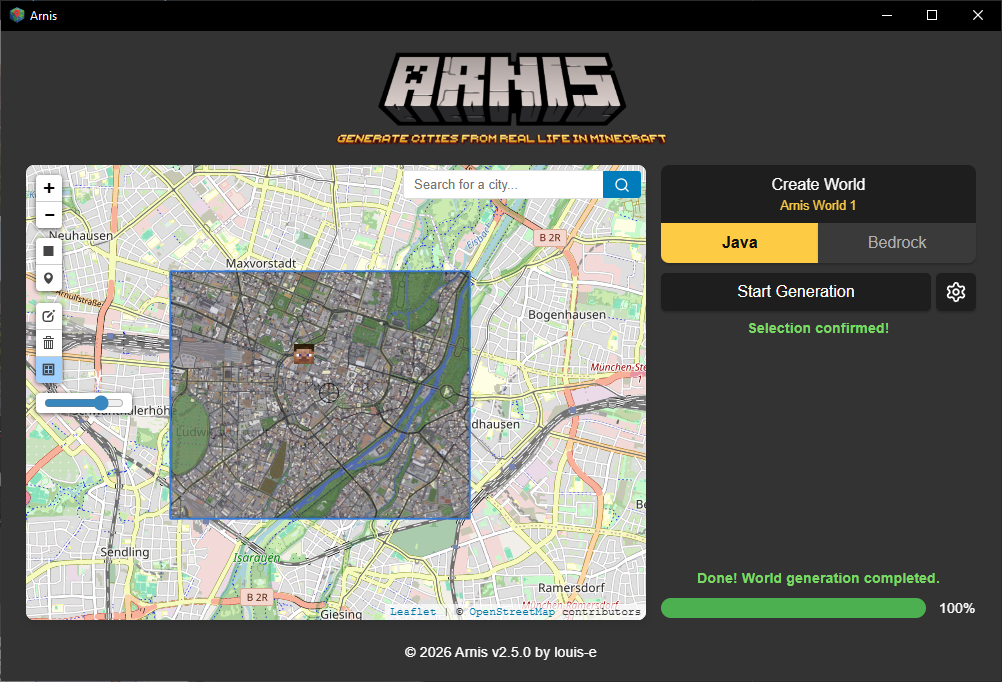
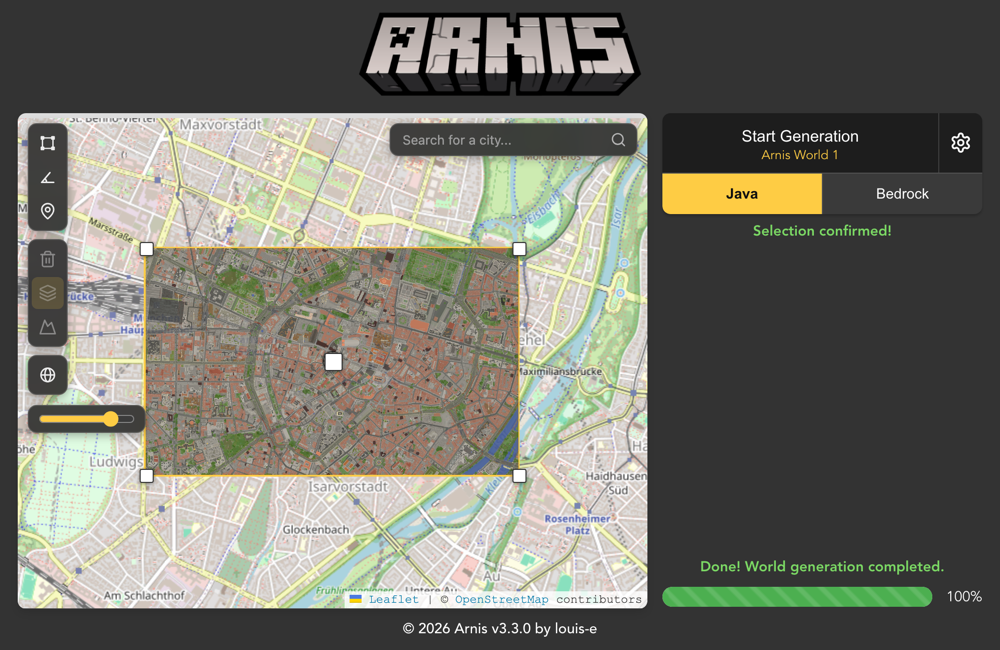
Trim README and update the GUI screenshot

diff --git a/README.md b/README.md
@@ -2,7 +2,7 @@
 
 # Arnis [![CI Build Status](https://github.com/louis-e/arnis/actions/workflows/ci-build.yml/badge.svg)](https://github.com/louis-e/arnis/actions) [<img alt="GitHub Release" src="https://img.shields.io/github/v/release/louis-e/arnis" />](https://github.com/louis-e/arnis/releases) [<img alt="GitHub Downloads (all assets, all releases" src="https://img.shields.io/github/downloads/louis-e/arnis/total" />](https://github.com/louis-e/arnis/releases) [![Download here](https://img.shields.io/badge/Download-here-green)](https://github.com/louis-e/arnis/releases) [![Discord](https://img.shields.io/discord/1326192999738249267?label=Discord&color=%237289da)](https://discord.gg/mA2g69Fhxq)
 
-Arnis creates complex and accurate Minecraft Java Edition (1.17+), Bedrock Edition, and Luanti (Minetest) worlds that reflect real-world geography, topography, and architecture.
+Arnis creates complex and accurate Minecraft Java Edition (1.21.4+), Bedrock Edition, and Luanti (Minetest) worlds that reflect real-world geography, topography, and architecture.
 
 This free and open source project is designed to handle large-scale geographic data from the real world and generate detailed Minecraft worlds. The algorithm processes geospatial data from OpenStreetMap as well as elevation data to create an accurate Minecraft representation of terrain and architecture.
 Generate your hometown, big cities, and natural landscapes with ease!
@@ -16,14 +16,14 @@ _**Want mobile generation or larger map sizes?** [MapSmith](https://arnismc.com/
 <img width="60%" src="assets/git/gui.png"><br>
 Download the [latest release](https://github.com/louis-e/arnis/releases/) or [compile](#trophy-open-source) the project on your own.
 
-Choose your area on the map using the rectangle tool and select your Minecraft world - then simply click on <i>Start Generation</i>!
+Choose your area on the map using the rectangle tool, then simply click on <i>Start Generation</i>!
 Additionally, you can customize various generation settings, such as world scale, spawn point, or building interior generation.
 
 ## 📚 Documentation
 
 <img src="assets/git/documentation.png" width="100%" alt="Banner">
 
-Full documentation is available in the [GitHub Wiki](https://github.com/louis-e/arnis/wiki/), covering topics such as technical explanations, FAQs, contribution guidelines and roadmaps.
+Full documentation is available in the [GitHub Wiki](https://github.com/louis-e/arnis/wiki/), covering topics such as generation settings, command line usage, technical explanations, FAQs and contribution guidelines.
 
 [backgroundvid.webm](https://github.com/user-attachments/assets/420acc19-a850-418e-8397-1a45b05582ab)
 
@@ -38,31 +38,14 @@ Full documentation is available in the [GitHub Wiki](https://github.com/louis-e/
 #### How to contribute
 This project is open source and welcomes contributions from everyone! Whether you're interested in fixing bugs, improving performance, adding new features, or enhancing documentation, your input is valuable. Simply fork the repository, make your changes, and submit a pull request. Please respect the above-mentioned key objectives. Contributions of all levels are appreciated, and your efforts help improve this tool for everyone.
 
-Command line Build: ```cargo run --release --no-default-features -- --output-dir="C:/YOUR_PATH/.minecraft/saves/worldname" --bbox="min_lat,min_lng,max_lat,max_lng"```<br>
+Command line Build: ```cargo run --release --no-default-features -- --output-dir="C:/YOUR_PATH/.minecraft/saves" --bbox="min_lat,min_lng,max_lat,max_lng"```<br>
 GUI Build: ```cargo run --release```<br>
 
-`--mode` selects what gets generated, mirroring the GUI's generation mode dropdown:
-
-| Mode | Result |
-| --- | --- |
-| `geo-terrain` (default) | Buildings, roads and other OSM objects on real elevation terrain |
-| `geo-only` | OSM objects on flat ground |
-| `terrain-only` | Real elevation terrain with OpenStreetMap water and nature, but no buildings, roads or other man-made objects (`--overture` has no effect). Built-up land and fields turn back into the natural cover around them, and bridges and piers into the water they cross |
-| `blueprint` | Roads, rails, water and nature on real elevation terrain, with every building drawn only as a light blue outline on the ground to build on. 3D models, props, interiors and facades are off |
-
-Two settings work with any mode and can be combined: `--winter` covers the ground, roofs and trees in snow, freezes rivers and lakes from their shores and makes every biome snowy, and `--post-apocalyptic` brings buildings partly down, breaks their walls and windows open, cracks the roads with grass growing through, piles rubble in the streets with the odd fire still burning in it, lets moss and vines climb the walls and puts every light out.
-
-`--one-world` generates into one persistent Java world that every later run extends; `--output-dir` is then the saves folder and `--world-name` picks the world in it:
-
-```
-cargo run --release --no-default-features -- --one-world --output-dir="C:/YOUR_PATH/.minecraft/saves" --world-name="My City" --bbox="min_lat,min_lng,max_lat,max_lng"
-```
-
-Every area is placed in the same Web Mercator frame, so neighbouring areas join seamlessly; the first run fixes scale, terrain mode and build height, and rotation is off. In the GUI the same mode is the *One World* toggle under Settings > World.
+All command line options, like the generation modes, winter and One World, are explained on the [Command Line Usage](https://github.com/louis-e/arnis/wiki/Command-Line-Usage) wiki page.
 
 After your pull request is merged, I will take care of regularly creating update releases which will include your changes.
 
-If you are using Nix, you can run the program directly with `nix run github:louis-e/arnis -- --output-dir=YOUR_PATH/.minecraft/saves/worldname --bbox="min_lat,min_lng,max_lat,max_lng"`
+If you are using Nix, you can run the program directly with `nix run github:louis-e/arnis -- --output-dir=YOUR_PATH/.minecraft/saves --bbox="min_lat,min_lng,max_lat,max_lng"`
 
 ## :star: Star History
 
